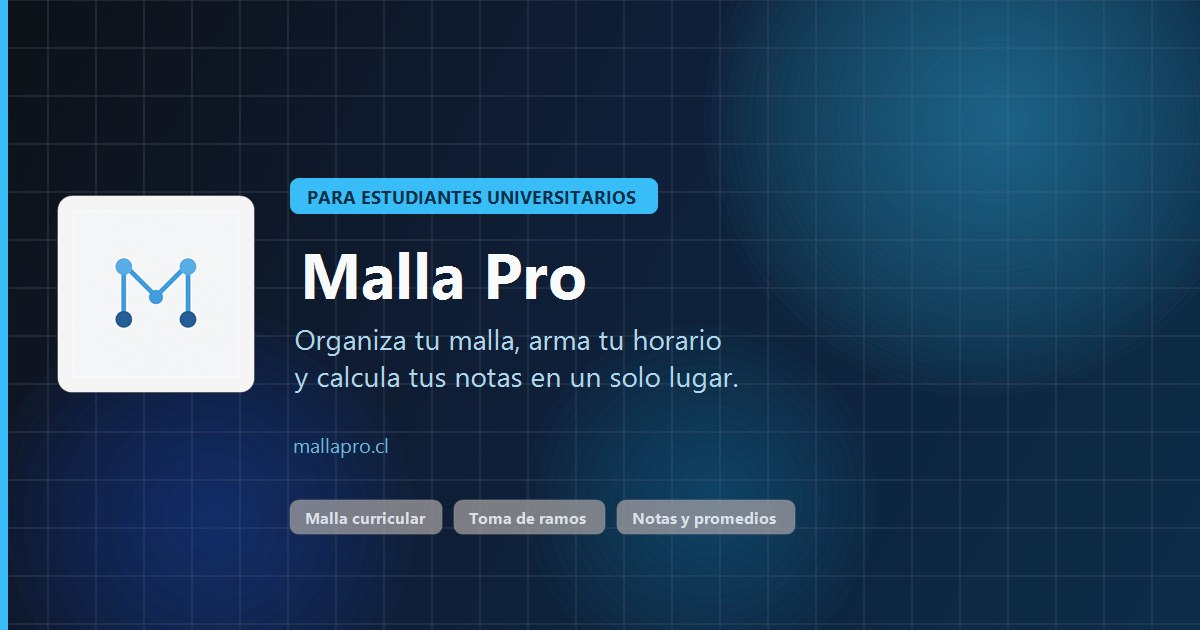
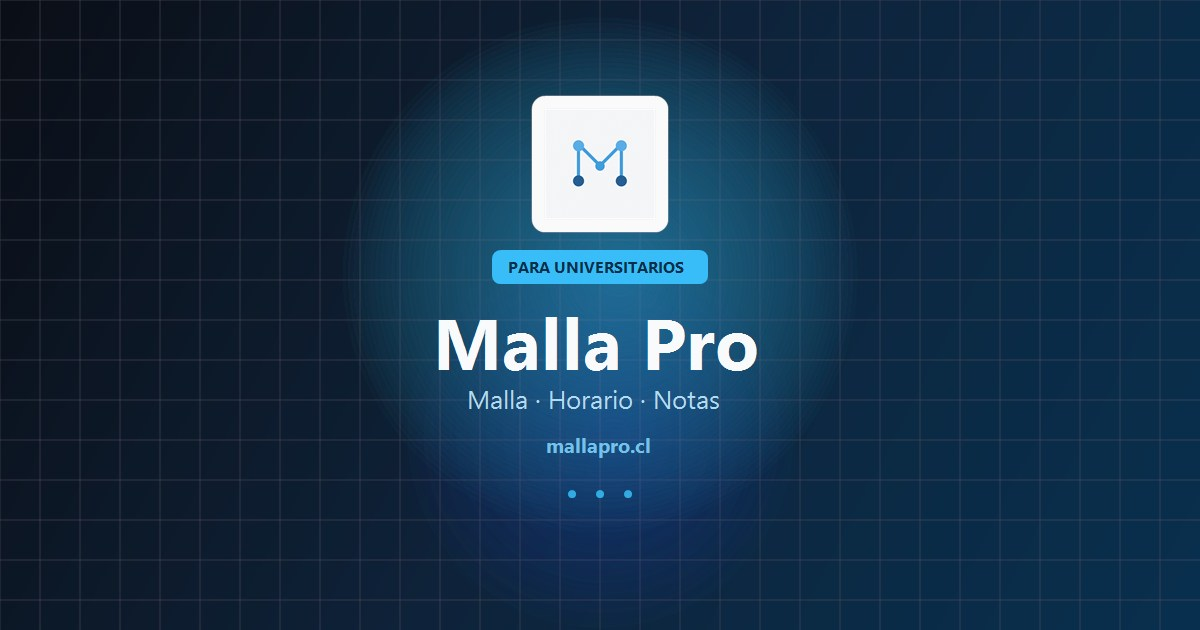
fix(seo): rediseñar og-image centrado para preview móvil de WhatsApp.
Recompone logo, marca y tagline en la zona segura cuadrada y versiona la imagen para forzar re-scrape.

diff --git a/index.html b/index.html
@@ -33,8 +33,8 @@
       property="og:description"
       content="Organiza tu malla, arma tu horario y calcula tus notas en un solo lugar. Hecho para estudiantes universitarios."
     />
-    <meta property="og:image" content="%VITE_SITE_URL%/og-image.jpg" />
-    <meta property="og:image:secure_url" content="%VITE_SITE_URL%/og-image.jpg" />
+    <meta property="og:image" content="%VITE_SITE_URL%/og-image.jpg?v=2" />
+    <meta property="og:image:secure_url" content="%VITE_SITE_URL%/og-image.jpg?v=2" />
     <meta property="og:image:type" content="image/jpeg" />
     <meta property="og:image:width" content="1200" />
     <meta property="og:image:height" content="630" />
@@ -50,7 +50,7 @@
       name="twitter:description"
       content="Organiza tu malla, arma tu horario y calcula tus notas en un solo lugar. Hecho para estudiantes universitarios."
     />
-    <meta name="twitter:image" content="%VITE_SITE_URL%/og-image.jpg" />
+    <meta name="twitter:image" content="%VITE_SITE_URL%/og-image.jpg?v=2" />
     <meta
       name="twitter:image:alt"
       content="Malla Pro — organiza tu malla curricular, arma tu horario y calcula tus notas"
@@ -79,7 +79,7 @@
           "priceCurrency": "CLP"
         },
         "inLanguage": "es-CL",
-        "image": "%VITE_SITE_URL%/og-image.jpg"
+        "image": "%VITE_SITE_URL%/og-image.jpg?v=2"
       }
     </script>
 
